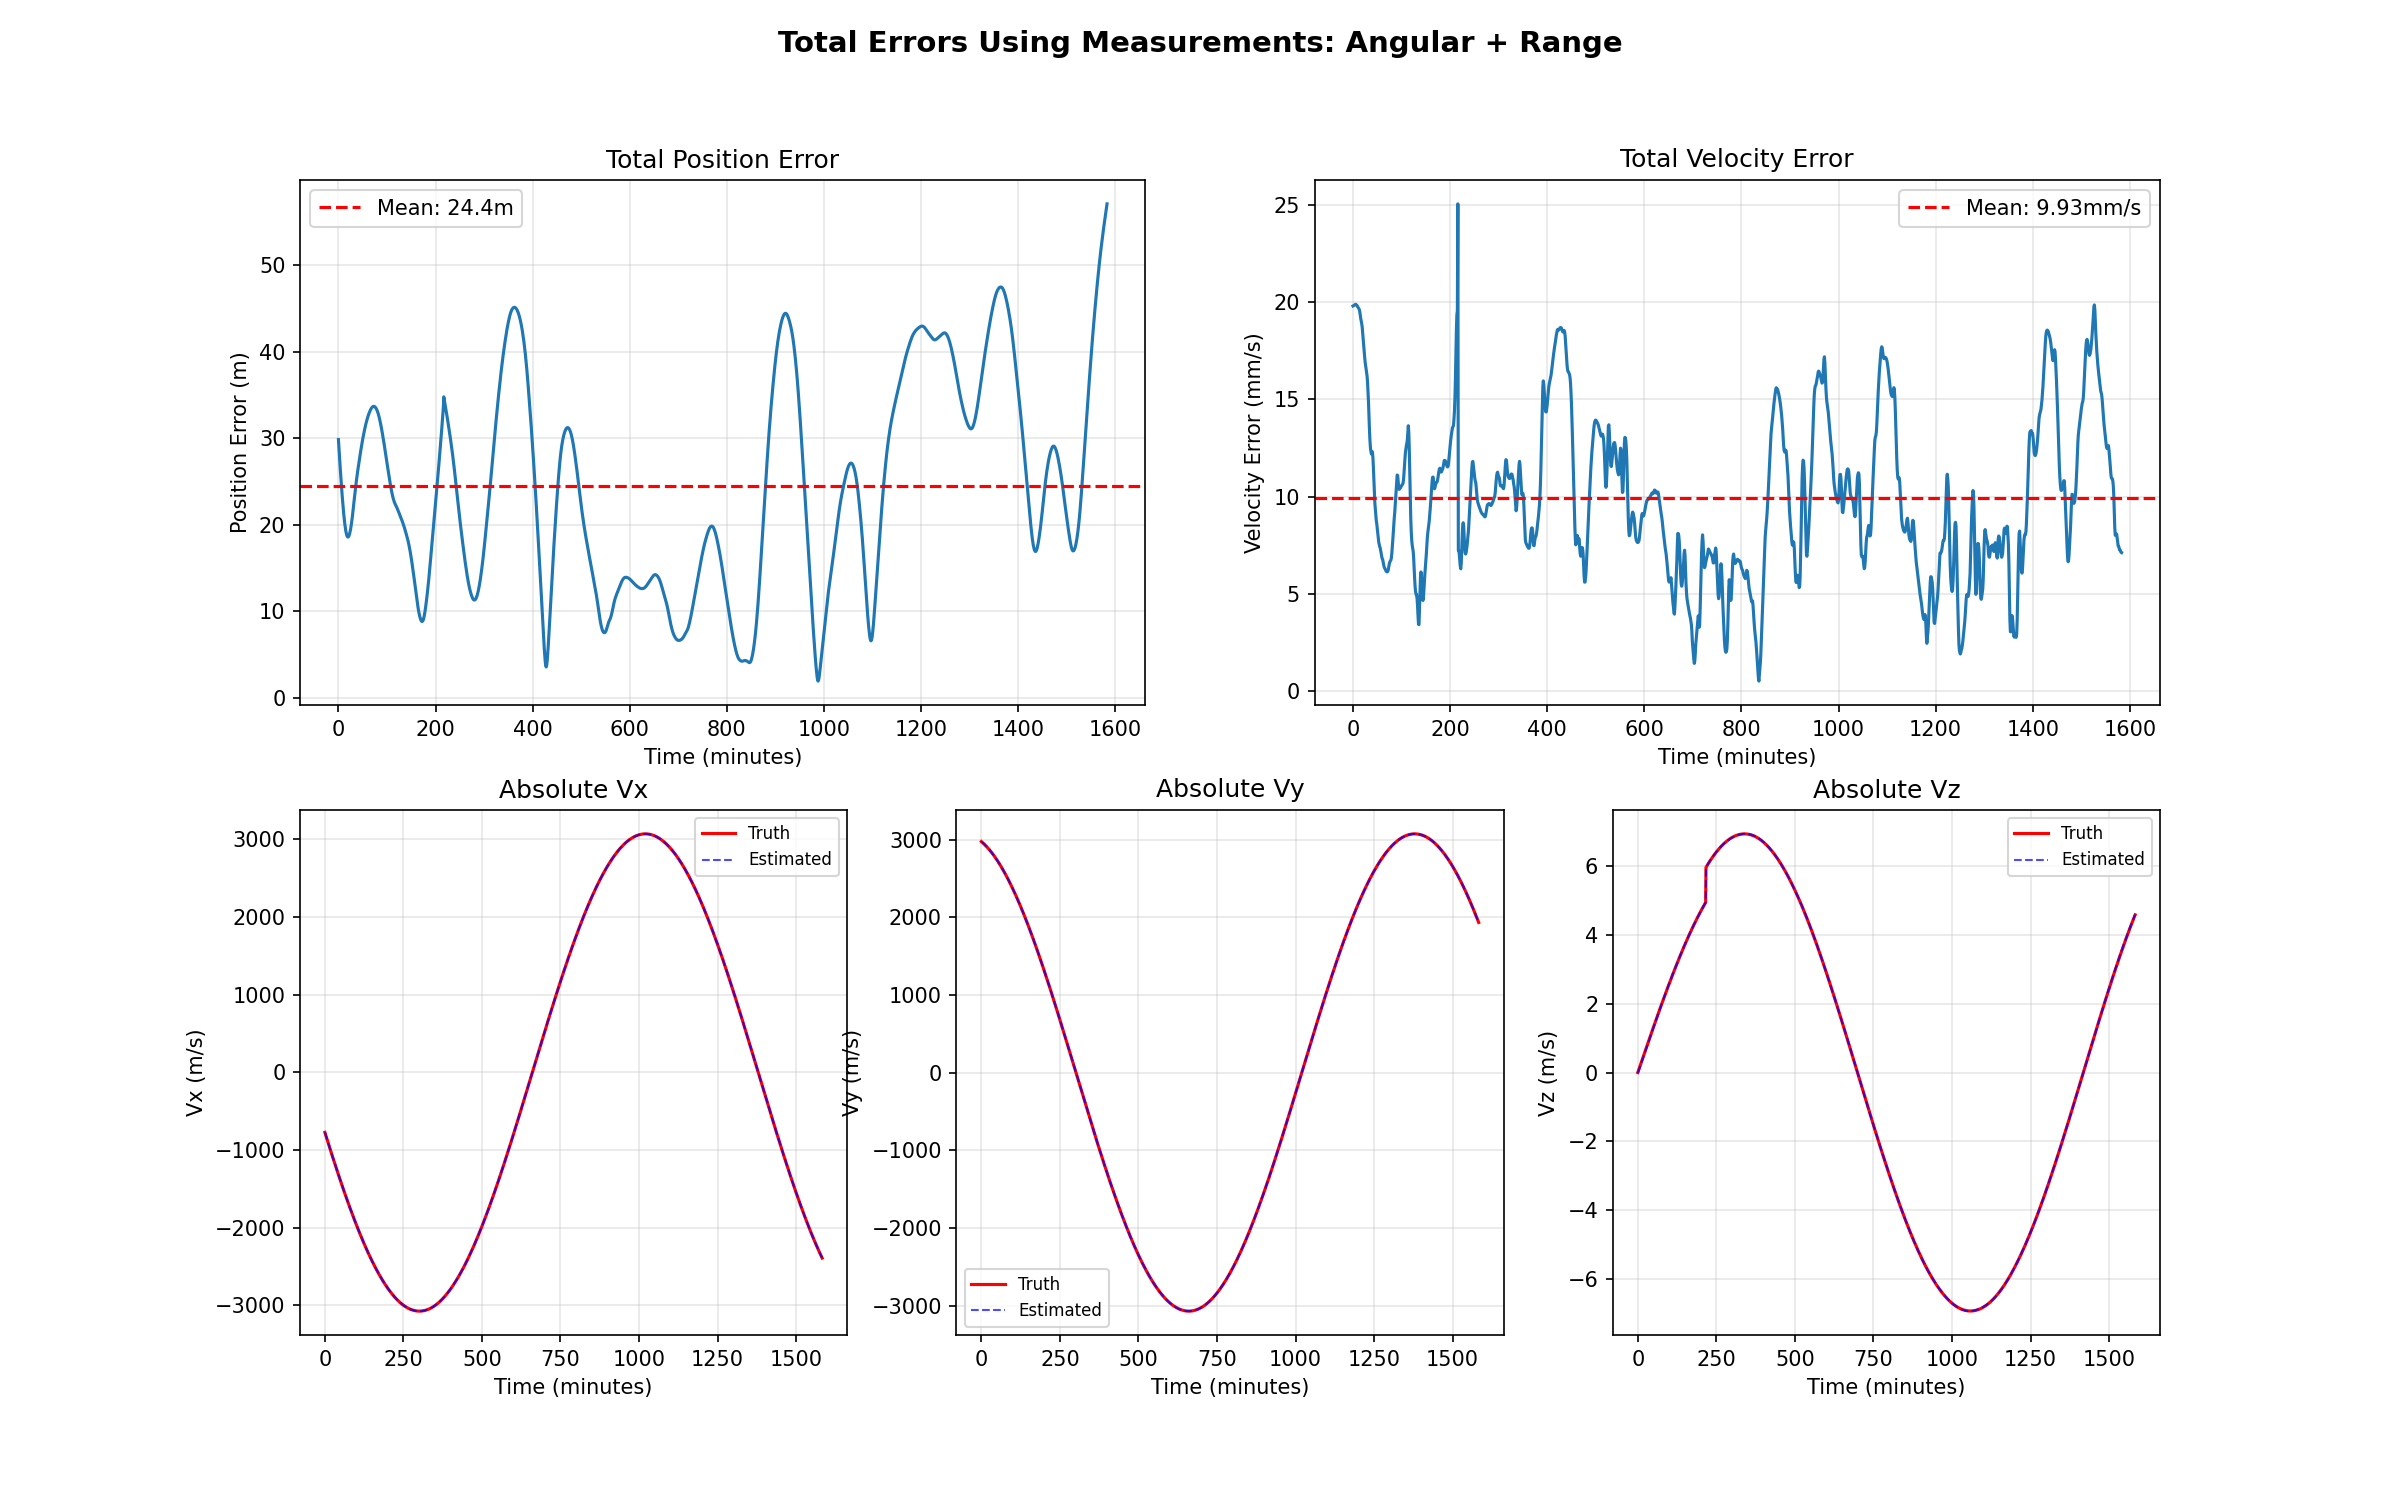
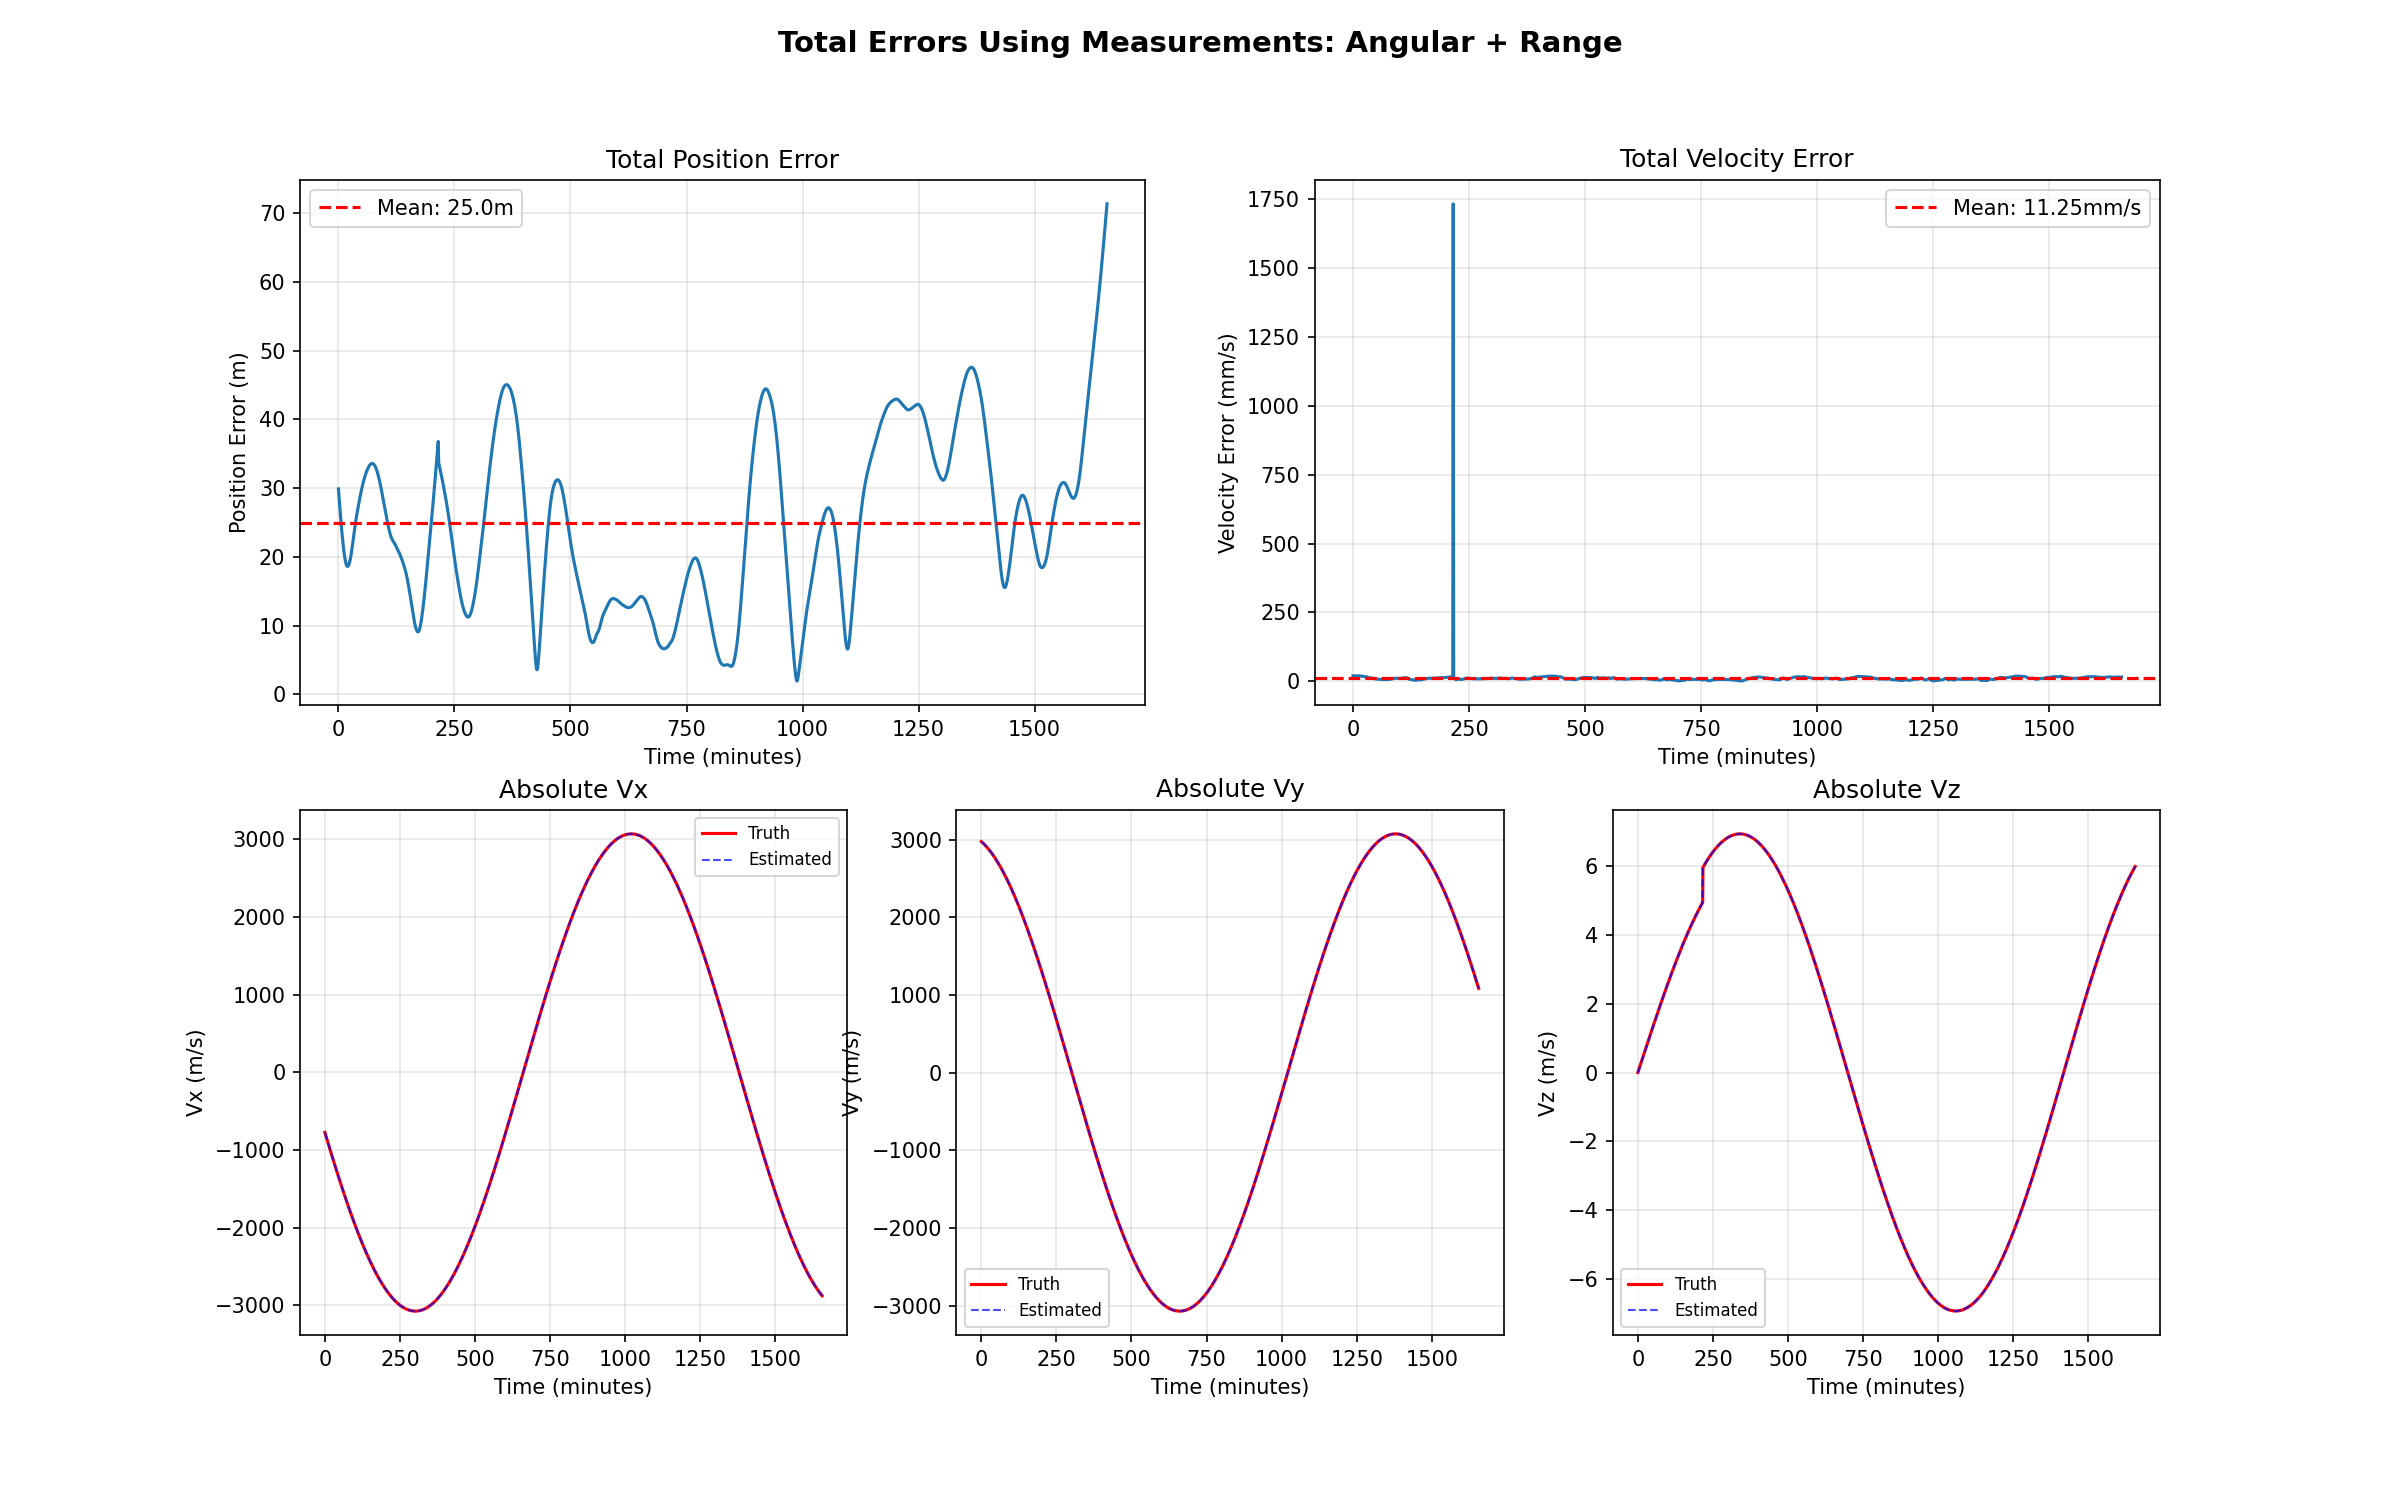
new configs

diff --git a/calibrate_q_ric.py b/calibrate_q_ric.py
@@ -14,7 +14,7 @@ from fgo_pipeline import load_propagator_output, load_config_parameters
 from Orbit_FGO import SatelliteOrbitFGO, eci_to_ric_rotation_matrix
 from propagator import OrbitPropagator
 
-CONFIG_PATH = "configs/config_geo_one_rev_deltaRIC1.yml"
+CONFIG_PATH = "configs/config_geo_one_rev_deltaC0.5.yml"
 
 
 def measure_ric_mismatch(config_path, dt_val=60.0):

diff --git a/compare_ge-astt.py b/compare_ge-astt.py
@@ -16,7 +16,7 @@ import shutil
 # Manoeuvre configs to compare
 configs = [
     ("configs/config_geo_one_rev_deltaRIC1.yml", "deltaRIC1"),
-    ("configs/config_geo_one_rev_deltaRIC0.yml", "deltaRIC0"),
+    ("configs/config_geo_one_rev_deltaRIC0.5.yml", "deltaRIC0.5"),
 ]
 
 # Two modes to run
